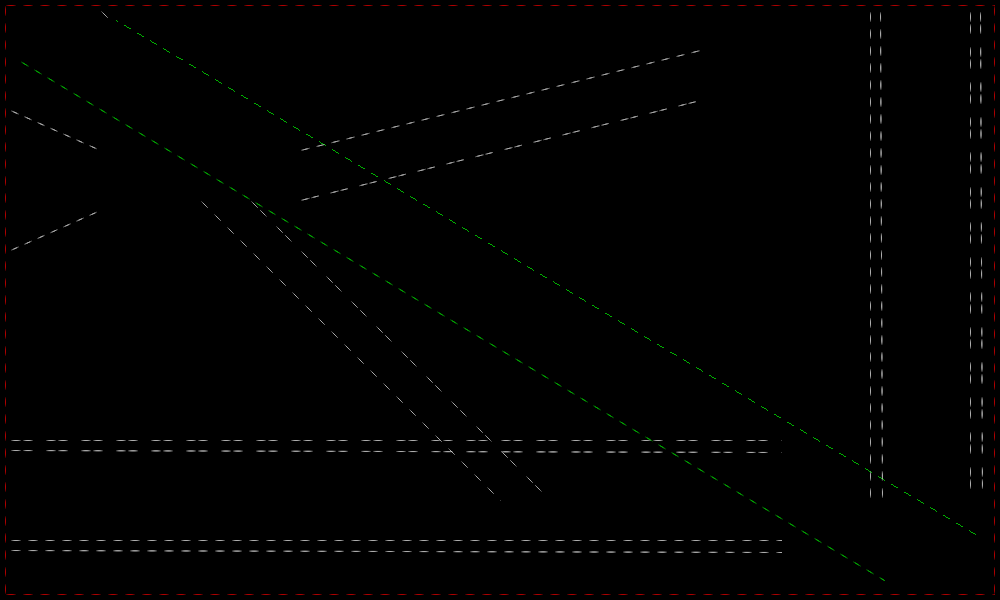
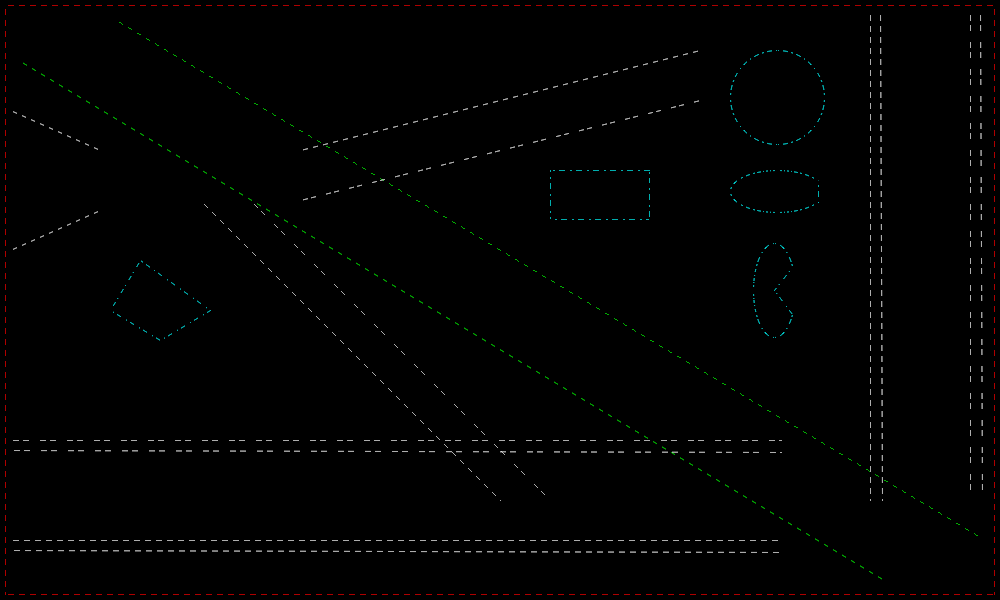
Working on patterned line

diff --git a/src/Pt-Gfx/ImagePainter2_Ellipse.cpp b/src/Pt-Gfx/ImagePainter2_Ellipse.cpp
@@ -43,7 +43,7 @@ namespace Gfx {
 
 void ImagePainter2::drawEllipse( const PointF& topLeft, const SizeF& size )
 {
-    drawOnePixelSolidEllipseArcImpl(topLeft, size, 0, 0, ArcMode::Open);
+    drawOnePixelEllipseArcImpl(topLeft, size, 0, 0, ArcMode::Open);
 }
 
 // Inspired by http://create.stephan-brumme.com/antialiased-circle
@@ -181,7 +181,7 @@ void ImagePainter2::fillEllipse( const PointF& topLeft, const SizeF& size )
 // ======================================================================================
 
 // Inspired by http://create.stephan-brumme.com/antialiased-circle
-void ImagePainter2::drawOnePixelSolidEllipseArcImpl(const PointF& topLeft, const SizeF& size, float degBegin, float degEnd, const ArcMode& arcMode)
+void ImagePainter2::drawOnePixelEllipseArcImpl(const PointF& topLeft, const SizeF& size, float degBegin, float degEnd, const ArcMode& arcMode)
 {
     // IMPORTANT NOTES:
     //     * The Y coordinate goes from low to high according to the coordinate system being used:
@@ -190,6 +190,9 @@ void ImagePainter2::drawOnePixelSolidEllipseArcImpl(const PointF& topLeft, const
     //       This will cause sign inversion for trigonometry-based calculations in the Y coordinate.
     //     * The movement from begin angle to end angle must be in counter-clockwise (CCW), otherwise
     //       something wrong will be drawn.
+
+    // Draw using solid pen?
+    const bool solid = (_rasterizer->pen().style() == Pen::Solid);
 
     // Shall we draw an ellipse or arc?
     const bool drawArc = (degBegin != 0) || (degEnd != 0);
@@ -250,7 +253,12 @@ void ImagePainter2::drawOnePixelSolidEllipseArcImpl(const PointF& topLeft, const
                     pointIsInsideArcDegRange(xr, yt, ctrX, ctrY, degBegin, degEnd, xyRat),
                     pointIsInsideArcDegRange(xr, yb, ctrX, ctrY, degBegin, degEnd, xyRat)
                 };
-                _rasterizer->stroke4Pixels(xl, yt, xr, yb, mask);
+                if(solid)
+                    _rasterizer->stroke4Pixels(xl, yt, xr, yb, mask);
+                else {
+                    const Pt::uint8_t pbv = _rasterizer->patternBufferValue(convertCartesianToPolarCoordinate(x, y));
+                    if(pbv) _rasterizer->stroke4Pixels(xl, yt, xr, yb, mask);
+                }
                 // Determine the exact coordinates of the closing lines
                 if(arcMode == ArcMode::Open) continue;
                 if(abs(xl - bx) < x1d) { x1d = abs(xl - bx); x1 = xl; }
@@ -264,7 +272,12 @@ void ImagePainter2::drawOnePixelSolidEllipseArcImpl(const PointF& topLeft, const
             }
             // Ellipse
             else {
-               _rasterizer->stroke4Pixels(xl, yt, xr, yb);
+                if(solid)
+                   _rasterizer->stroke4Pixels(xl, yt, xr, yb);
+                else {
+                    const Pt::uint8_t pbv = _rasterizer->patternBufferValue(convertCartesianToPolarCoordinate(x, y));
+                    if(pbv) _rasterizer->stroke4Pixels(xl, yt, xr, yb);
+                }
             }
         }
         // With anti-aliasing
@@ -293,8 +306,16 @@ void ImagePainter2::drawOnePixelSolidEllipseArcImpl(const PointF& topLeft, const
                 };
                 const Pt::uint8_t a0 = Rasterizer2::XWAA_WFILTER[      alpha];
                 const Pt::uint8_t a1 = Rasterizer2::XWAA_WFILTER[255 - alpha];
-                _rasterizer->stroke4Pixels(xl, yt0, xr, yb0, a0, mask0);
-                _rasterizer->stroke4Pixels(xl, yt1, xr, yb1, a1, mask1);
+                if(solid) {
+                    _rasterizer->stroke4Pixels(xl, yt0, xr, yb0, a0, mask0);
+                    _rasterizer->stroke4Pixels(xl, yt1, xr, yb1, a1, mask1);
+                }
+                else {
+                    const Pt::uint8_t pbv0 = _rasterizer->patternBufferValue(convertCartesianToPolarCoordinate(x, y), a0);
+                    const Pt::uint8_t pbv1 = _rasterizer->patternBufferValue(convertCartesianToPolarCoordinate(x, y), a1);
+                    _rasterizer->stroke4Pixels(xl, yt0, xr, yb0, pbv0, mask0);
+                    _rasterizer->stroke4Pixels(xl, yt1, xr, yb1, pbv1, mask1);
+                }
                 // Determine the exact coordinates of the closing lines
                 if(arcMode == ArcMode::Open) continue;
                 if(abs(xl  - bx) < x1d) { x1d = abs(xl  - bx); x1 = xl;  }
@@ -314,8 +335,16 @@ void ImagePainter2::drawOnePixelSolidEllipseArcImpl(const PointF& topLeft, const
             else {
                 const Pt::uint8_t a0 = Rasterizer2::XWAA_WFILTER[      alpha];
                 const Pt::uint8_t a1 = Rasterizer2::XWAA_WFILTER[255 - alpha];
-                _rasterizer->stroke4Pixels(xl, yt0, xr, yb0, a0);
-                _rasterizer->stroke4Pixels(xl, yt1, xr, yb1, a1);
+                if(solid) {
+                    _rasterizer->stroke4Pixels(xl, yt0, xr, yb0, a0);
+                    _rasterizer->stroke4Pixels(xl, yt1, xr, yb1, a1);
+                }
+                else {
+                    const Pt::uint8_t pbv0 = _rasterizer->patternBufferValue(convertCartesianToPolarCoordinate(x, y), a0);
+                    const Pt::uint8_t pbv1 = _rasterizer->patternBufferValue(convertCartesianToPolarCoordinate(x, y), a1);
+                    _rasterizer->stroke4Pixels(xl, yt0, xr, yb0, pbv0);
+                    _rasterizer->stroke4Pixels(xl, yt1, xr, yb1, pbv1);
+                }
             }
         }
     }
@@ -344,7 +373,12 @@ void ImagePainter2::drawOnePixelSolidEllipseArcImpl(const PointF& topLeft, const
                     pointIsInsideArcDegRange(xr, yt, ctrX, ctrY, degBegin, degEnd, xyRat),
                     pointIsInsideArcDegRange(xr, yb, ctrX, ctrY, degBegin, degEnd, xyRat)
                 };
-                _rasterizer->stroke4Pixels(xl, yt, xr, yb, mask);
+                if(solid)
+                    _rasterizer->stroke4Pixels(xl, yt, xr, yb, mask);
+                else {
+                    const Pt::uint8_t pbv = _rasterizer->patternBufferValue(convertCartesianToPolarCoordinate(x, y));
+                    if(pbv) _rasterizer->stroke4Pixels(xl, yt, xr, yb, mask);
+                }
                 // Determine the exact coordinates of the closing lines
                 if(arcMode == ArcMode::Open) continue;
                 if(abs(xl - bx) < x1d) { x1d = abs(xl - bx); x1 = xl; }
@@ -358,7 +392,12 @@ void ImagePainter2::drawOnePixelSolidEllipseArcImpl(const PointF& topLeft, const
             }
             // Ellipse
             else {
-                _rasterizer->stroke4Pixels(xl, yt, xr, yb);
+                if(solid)
+                    _rasterizer->stroke4Pixels(xl, yt, xr, yb);
+                else {
+                    const Pt::uint8_t pbv = _rasterizer->patternBufferValue(convertCartesianToPolarCoordinate(x, y));
+                    if(pbv) _rasterizer->stroke4Pixels(xl, yt, xr, yb);
+                }
             }
         }
         // With anti-aliasing
@@ -387,8 +426,16 @@ void ImagePainter2::drawOnePixelSolidEllipseArcImpl(const PointF& topLeft, const
                 };
                 const Pt::uint8_t a0 = Rasterizer2::XWAA_WFILTER[      alpha];
                 const Pt::uint8_t a1 = Rasterizer2::XWAA_WFILTER[255 - alpha];
-                _rasterizer->stroke4Pixels(xl0, yt, xr0, yb, a0, mask0);
-                _rasterizer->stroke4Pixels(xl1, yt, xr1, yb, a1, mask1);
+                if(solid) {
+                    _rasterizer->stroke4Pixels(xl0, yt, xr0, yb, a0, mask0);
+                    _rasterizer->stroke4Pixels(xl1, yt, xr1, yb, a1, mask1);
+                }
+                else {
+                    const Pt::uint8_t pbv0 = _rasterizer->patternBufferValue(convertCartesianToPolarCoordinate(x, y), a0);
+                    const Pt::uint8_t pbv1 = _rasterizer->patternBufferValue(convertCartesianToPolarCoordinate(x, y), a1);
+                    _rasterizer->stroke4Pixels(xl0, yt, xr0, yb, pbv0, mask0);
+                    _rasterizer->stroke4Pixels(xl1, yt, xr1, yb, pbv1, mask1);
+                }
                 // Determine the exact coordinates of the closing lines
                 if(arcMode == ArcMode::Open) continue;
                 if(abs(xl0 - bx) < x1d) { x1d = abs(xl0 - bx); x1 = xl0; }
@@ -408,8 +455,16 @@ void ImagePainter2::drawOnePixelSolidEllipseArcImpl(const PointF& topLeft, const
             else {
                 const Pt::uint8_t a0 = Rasterizer2::XWAA_WFILTER[      alpha];
                 const Pt::uint8_t a1 = Rasterizer2::XWAA_WFILTER[255 - alpha];
-                _rasterizer->stroke4Pixels(xl0, yt, xr0, yb, a0);
-                _rasterizer->stroke4Pixels(xl1, yt, xr1, yb, a1);
+                if(solid) {
+                    _rasterizer->stroke4Pixels(xl0, yt, xr0, yb, a0);
+                    _rasterizer->stroke4Pixels(xl1, yt, xr1, yb, a1);
+                }
+                else {
+                    const Pt::uint8_t pbv0 = _rasterizer->patternBufferValue(convertCartesianToPolarCoordinate(x, y), a0);
+                    const Pt::uint8_t pbv1 = _rasterizer->patternBufferValue(convertCartesianToPolarCoordinate(x, y), a1);
+                    _rasterizer->stroke4Pixels(xl0, yt, xr0, yb, pbv0);
+                    _rasterizer->stroke4Pixels(xl1, yt, xr1, yb, pbv1);
+                }
             }
         }
     }

diff --git a/include/Pt/Gfx/Argb32Image.h b/include/Pt/Gfx/Argb32Image.h
@@ -117,11 +117,11 @@ class Argb32Model
  *     => RESULT = (((uint32_t) VALUE * 0x0000FF01) >> 16) >> 8
  */
 #ifdef USE_MULTIPLY_SHIFT_FOR_CONSTANT_DIVISION
-    #define DIV_BY_255(V) ( (((uint32_t) V * 0x00008081) >> 16) >> 7 )
-    #define DIV_BY_257(V) ( (((uint32_t) V * 0x0000FF01) >> 16) >> 8 )
+    #define DIV_BY_255(V) ( (((Pt::uint32_t) V * 0x00008081) >> 16) >> 7 )
+    #define DIV_BY_257(V) ( (((Pt::uint32_t) V * 0x0000FF01) >> 16) >> 8 )
 #else
-    #define DIV_BY_255(V) ( (uint32_t) V / 255 )
-    #define DIV_BY_257(V) ( (uint32_t) V / 257 )
+    #define DIV_BY_255(V) ( (Pt::uint32_t) V / 255 )
+    #define DIV_BY_257(V) ( (Pt::uint32_t) V / 257 )
 #endif
 
         static Color toColor(const Pt::uint8_t* p)

diff --git a/include/Pt/Gfx/ImagePainter2.h b/include/Pt/Gfx/ImagePainter2.h
@@ -205,7 +205,7 @@ class PT_GFX_API ImagePainter2 : public Painter
         void arcUtil_drawXWLine(const FilledArcInfo& fai, const XWLineData& xwLine, Point maskInOut[4]);
 
         // Drawing functions
-        virtual void drawOnePixelSolidEllipseArcImpl(const PointF& topLeft, const SizeF& size, float degBegin, float degEnd, const ArcMode& arcMode);
+        virtual void drawOnePixelEllipseArcImpl(const PointF& topLeft, const SizeF& size, float degBegin, float degEnd, const ArcMode& arcMode);
 
         virtual void fillEllipseImplNoAA(const PointF& topLeft, const SizeF& size);
 

diff --git a/src/Pt-Gfx/Rasterizer2.h b/src/Pt-Gfx/Rasterizer2.h
@@ -185,6 +185,12 @@ class Rasterizer2
     public:
         void updateGradientBrushAsNeeded(Pt::int32_t width, Pt::int32_t height);
 
+        inline Pt::uint8_t patternBufferValue(Pt::int32_t idx)
+        { return _patternBuffer[idx % FIXED_POINT_TO_INT(_fpatternMaxCtr)];  }
+
+        inline Pt::uint8_t patternBufferValue(Pt::int32_t idx, Pt::uint8_t alpha)
+        { return (Pt::uint32_t) _patternBuffer[idx % FIXED_POINT_TO_INT(_fpatternMaxCtr)] * alpha / 255;  }
+
     private:
         // Polygon scanlines
         struct PolygonScanline16 {

diff --git a/src/Pt-Gfx/Rasterizer2_PatternedLine.cpp b/src/Pt-Gfx/Rasterizer2_PatternedLine.cpp
@@ -47,6 +47,8 @@ void Rasterizer2::rasterOnePixelPatternedLine(Pt::int32_t x1, Pt::int32_t y1, Pt
     // Calculate the incremental factor of the pattern indexing counter
     const Pt::int32_t fpiCtrInc = FIXED_POINT_FROM_INT(sizeX + sizeY) / Gfx::Math::fastSqrt(sizeX * sizeX + sizeY * sizeY);
 
+    // ### TODO: SIDE AA FOR X-LINE !!! ###
+
     // Draw the line
     if(_aaMode == AntiAliasingMode::None)
         rasterOnePixelPatternedGLineSegmentNoAA(x1, y1, x2, y2, color, fpiCtrInc, fpiCtrInOut, maskInOut);

diff --git a/src/Pt-Gfx/tests/ImagePainterTest2_Draw_Outline.cpp b/src/Pt-Gfx/tests/ImagePainterTest2_Draw_Outline.cpp
@@ -96,9 +96,7 @@ static void testDrawPatternedLine(const char* title, Image& image, Painter& pain
     painter.drawLine( PointF(781, 452), PointF( 10, 450) );
 
     if(ip2) ip2->setAntiAliasingMode(AntiAliasingMode::Fastest);
-
     painter.setPen( Pen( Color::fromRgb8(0, 255, 255, 175), 1, Pen::DotDash )  );
-//    painter.setPen( Pen( Color::fromRgb8(0, 255, 255, 175), 1, Pen::DotDash )  );
 
     const PointF poly[] = { // CCW
         PointF(110, 310),

diff --git a/src/Pt-Gfx/ImagePainter2_Arc.cpp b/src/Pt-Gfx/ImagePainter2_Arc.cpp
@@ -43,7 +43,7 @@ namespace Gfx {
 
 void ImagePainter2::drawArc( const PointF& topLeft, const SizeF& size, float degBegin, float degEnd, const ArcMode& arcMode )
 {
-    drawOnePixelSolidEllipseArcImpl(topLeft, size, degBegin, degEnd, arcMode);
+    drawOnePixelEllipseArcImpl(topLeft, size, degBegin, degEnd, arcMode);
 }
 
 void ImagePainter2::fillArc( const PointF& topLeft, const SizeF& size, float degBegin, float degEnd, const ArcMode& arcMode )
